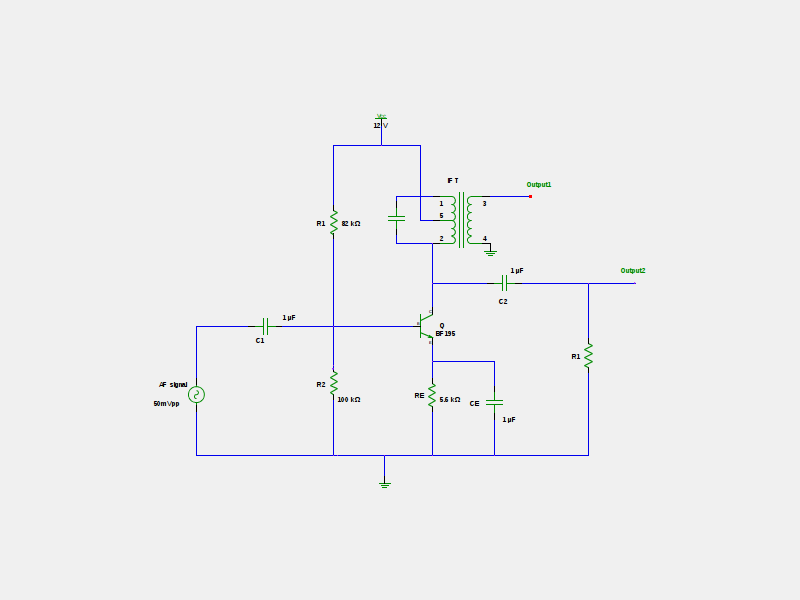
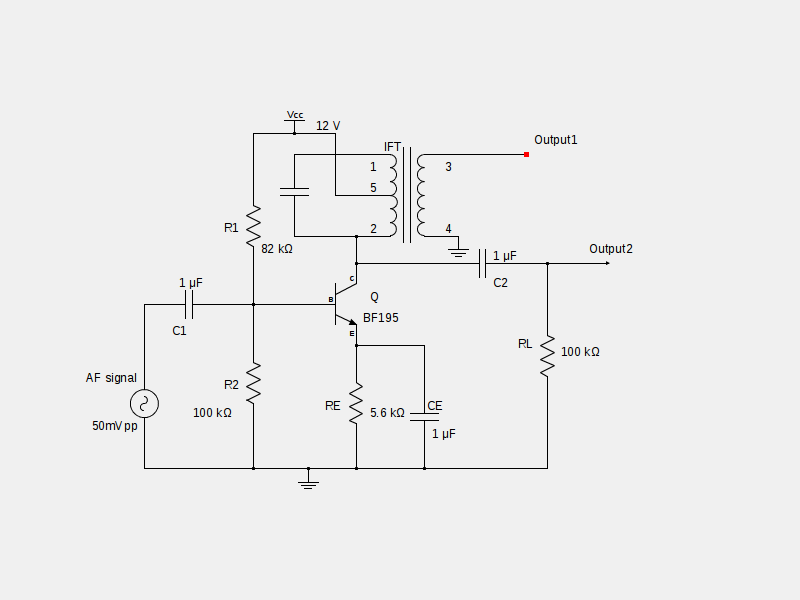
[analogcommunicationcircuits] IFT circuit redrawn, content modified for perfection

diff --git a/analogcommunicationcircuits/chapters/ift.tex b/analogcommunicationcircuits/chapters/ift.tex
@@ -9,7 +9,7 @@ To design and implement a tuned  intermediate frequency amplifier using BJT and 
 Intermediate frequency amplifiers are tuned voltage amplifiers used to amplify a particular frequency. Its primary function is to amplify only the tuned frequency with maximum gain and reject all other frequencies above and below this frequency. This type of amplifiers are widely used in intermediate frequency amplifiers in AM super heterodyne receivers, where intermediate frequency is usually 455 kHz.
 
 In common emitter voltage amplifier circuit (emitter bypassed), the voltage gain is $A_V=\frac{R_C||R_L}{r_e}$, where $R_C$ is the collector resistance in the circuit, $R_L$ is the load resistance and $r_e$ is the internal emitter resistance. In tuned voltage amplifier the collector resistance is replace by a tuned load upon which  the gain is dependant. For a parallel resonating circuit the impedance $Z_o$ is maximum at resonant frequency, $f_o=\frac{2\pi}{\sqrt{LC}}$. So an amplifier with tuned load will have maximum gain at resonant frequency.
-In practical tuned amplifier circuits,an intermediate frequency transformer(IFT) is used as tuned load. IFT is tuned to standard 455 kHz audio frequency, (See \ref{IFT}).
+In practical tuned amplifier circuits, an intermediate frequency transformer(IFT) is used as tuned load. IFT is tuned to standard 455 kHz audio frequency, (See \ref{IFT}).
 
 The quality factor of the circuit is given by $Q=\frac{f_o}{Bandwidth}$.
 
@@ -18,7 +18,7 @@ Inorder to design a Common Emitter Intermediate frequency amplifier, use a high 
 \\Choose transistor BF 194/195. For its datasheet See \ref{BF194/195},\\
 
 
-\noindent Let $V_{CC}$ be 10\% more than the required output amplitude,ie. 10V.
+\noindent Let $V_{CC}$ be 10\% more than the required output amplitude, ie. 10V.
 \begin{equation}
 \therefore V_{CC}=12\ V
 \end{equation}
@@ -34,7 +34,7 @@ Let the stability factor of the circuit be,
 S=10
 \end{equation}
 
-\noindent Under dc  conditions, the primary dc resistance of the IFT is very small,($<5\Omega$). So dc volatage drop across collector circuit is very low, approximately zero.
+\noindent Under dc  conditions, the primary dc resistance of the IFT is very small,($<5\Omega$). So dc voltage drop across collector circuit is very low, approximately zero.
 
 \noindent For class A mode of operation set, 
 \begin{equation}
@@ -83,18 +83,23 @@ V_{R1}= V{CC} \frac{R_2}{R_1+R_2}=\ 6.6V
 \label{R2}
 \frac{R_2}{R_1+R_2}=\ \frac{6.6V}{12V}=\ 0.55
 \end{equation}
-From \ref{R1R2} and \ref{R2}, 
+From equations \ref{R1R2} and \ref{R2}, 
 \begin{equation}
 R_1=\ 91.4\ k\Omega \approx \ 82\ k\Omega \ and \ R_2=100\ k\Omega
+\end{equation}
+\noindent Choose load resistor as 
+\begin{equation}
+R_L=\ 100 k\Omega
 \end{equation}
 \subsubsection{Design of capacitors}
 \noindent The capacitors $C_1$, $C_2$  and $C_E$  can be designed based on lower cut-off frequency at -3 dB point. Since this frequency is verylower than 300 kHz, Choose low values of capacitance like \begin{equation}
 C_1=\ C_2=\ C_E=\ 1 \ \mu F
 \end{equation}
+
 \section*{Circuit Diagram}
 See Figure \ref{IFTuned} for circuit diagram.
 \begin{figure}[h]
-\includegraphics[width=12cm, height=8cm, trim=4cm 3.5cm 5cm 3.5cm,clip=true]{IFTuned.png}
+\includegraphics[width=12cm, height=8cm, trim=2cm 3.5cm 5cm 3.5cm,clip=true]{IFTuned.png}
 \caption{Circuit Diagram for IF Tuned Amplifier}
 \label{IFTuned}
 \end{figure}
@@ -107,9 +112,7 @@ Obtain output from terminal-1 or terminal-2 as in the circuit diagram.
 \item
 Give input signal, which is a sinewave of frequency variable from 300 kHz to 600 kHz and amplitude 50 $mV_{pp}$.
 \item
-Calculate gain $A_V$ by varying $V_{inpp}$.\\
-
-($A_V= \ \frac{V_{outpp}}{V_{inpp}}$)
+Calculate gain $A_V$ by varying $V_{inpp}$.($A_V= \ \frac{V_{outpp}}{V_{inpp}}$)
 
 \item
 Plot frequency response characteristics. Find out resonant frequency, 3-dB bandwidth and Q-factor.
@@ -122,7 +125,7 @@ Plot frequency response characteristics. Find out resonant frequency, 3-dB bandw
 \hline
  & & &\\
  
-$f_{in}$  & $V_{inpp}$ & $V_{outpp}$ & $A_v$\\
+$f_{in}$  &  $V_{outpp}$ & $A_v\ =\frac{V_{outpp}}{V_{inpp}} $ & $Gain_{dB}=\ 20\ log\ A_v$ \\
  & & & \\ \hline
  & & &\\ \hline
 & & &\\ \hline
